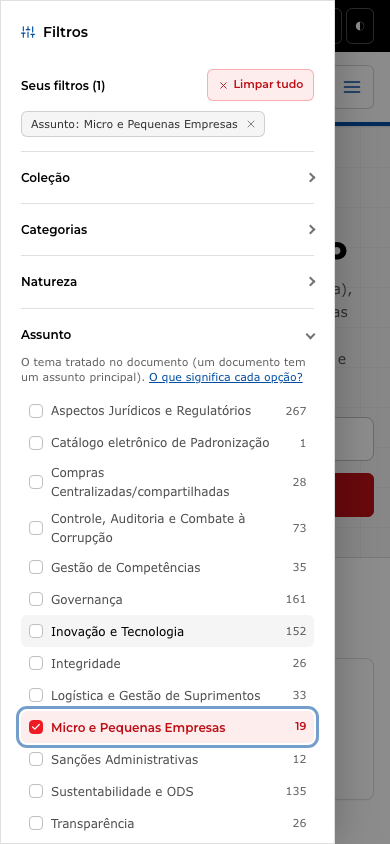
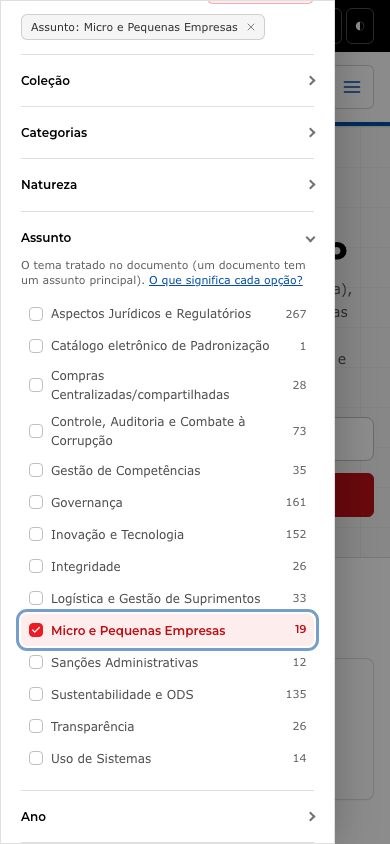
fix(acervo): filtro tocado não se desloca na barra lateral ao atualizar
Bernardo (15/09/2026): "a cada vez que seleciono um filtro a página sobe um
pouquinho". Medido com Playwright (rolagem instantânea, clique por
coordenada, log de eventos de scroll): nem a janela nem a rolagem interna
da barra mudavam — mas o bloco "Seus filtros" entra, cresce ou some ACIMA
da lista dentro da barra, e o checkbox tocado se deslocava ~97 px na tela
(descia ao marcar; subia ao desmarcar o último filtro).

- acervo-filters.js: a troca ancora o primeiro título de faceta
  (ancoraDaBarra), preserva sidebar.scrollTop (innerHTML pode zerá-lo) e
  compensa a diferença de posição na rolagem própria da barra
  (compensarAncora) — sticky no desktop, drawer no mobile; a rolagem da
  janela não muda. A restauração da janela passou a ser instantânea
  (behavior: "instant"): o html tem scroll-behavior: smooth e qualquer
  ajuste animado apareceria como "a página deslizou".
- evidencias_playwright.py: verificação filtro_tocado_nao_se_move nas cenas
  desktop e mobile (761 → 761 px; 615 → 614 px); diagnóstico: barra
  compensa 441 → 537 e o rótulo fica em 705 → 706; ao desmarcar o último
  filtro, 658 → 658; scrollY intacto em todas.
- Teste de contrato novo em test_filtros_sem_voltar_ao_topo.py (140 testes).

Residual inevitável só quando a barra não tem rolagem própria (conteúdo
menor que a viewport) ou já está no topo ao desmarcar.

diff --git a/portal/static/js/acervo-filters.js b/portal/static/js/acervo-filters.js
@@ -109,6 +109,26 @@
     if (!a || !form.contains(a)) return null;
     return { id: a.id || "", name: a.getAttribute("name") || "", value: a.value || "", tag: a.tagName };
   }
+  // Âncora visual da barra: o primeiro título de faceta ("Coleção"). O bloco
+  // "Seus filtros" entra/sai/cresce ACIMA dele a cada troca, e a lista inteira se
+  // deslocava ~97 px na tela (o checkbox tocado "descia", ou "subia" ao desmarcar
+  // o último filtro). A diferença de posição da âncora depois da troca é
+  // compensada na rolagem PRÓPRIA da barra (sticky/drawer com overflow), para o
+  // controle continuar sob o cursor — a rolagem da janela não muda.
+  function ancoraDaBarra() {
+    var s = sidebar.querySelector("details.side-section > summary");
+    return s ? { top: s.getBoundingClientRect().top } : null;
+  }
+  function compensarAncora(ancora) {
+    if (!ancora) return;
+    var s = sidebar.querySelector("details.side-section > summary");
+    if (!s) return;
+    var delta = Math.round(s.getBoundingClientRect().top - ancora.top);
+    if (!delta) return;
+    var max = sidebar.scrollHeight - sidebar.clientHeight;
+    if (max <= 0) return;                                   // barra sem rolagem própria: nada a compensar
+    sidebar.scrollTop = Math.max(0, Math.min(max, sidebar.scrollTop + delta));
+  }
   function focar(el) {
     if (!el) return;
     // Só ganha tabindex="-1" quem não é focável por natureza: <summary>, input,
@@ -180,6 +200,8 @@
         var foco = focoAtual();
         var drawerAberto = sidebar.classList.contains("is-open");
         var sx = window.scrollX, sy = window.scrollY;
+        var sbScroll = sidebar.scrollTop;                    // rolagem própria da barra (sticky/drawer)
+        var ancora = ancoraDaBarra();
 
         sidebar.innerHTML = novoSidebar.innerHTML;
         resultados.innerHTML = novoRes.innerHTML;
@@ -195,7 +217,11 @@
         reaplicarDetails(estado);
         var t = mobileToggle();
         if (t) t.setAttribute("aria-expanded", drawerAberto ? "true" : "false");
-        window.scrollTo(sx, sy);                            // o leitor continua onde estava
+        sidebar.scrollTop = sbScroll;                       // innerHTML pode zerar a rolagem da barra
+        // Instantâneo: o html tem scroll-behavior: smooth e um ajuste animado
+        // apareceria como "a página deslizou". O leitor continua onde estava.
+        window.scrollTo({ left: sx, top: sy, behavior: "instant" });
+        compensarAncora(ancora);                            // lista da barra não se desloca sob o cursor
 
         var titulo = doc.querySelector("title");
         if (titulo) document.title = titulo.textContent;

diff --git a/tools/evidencias_playwright.py b/tools/evidencias_playwright.py
@@ -104,12 +104,19 @@ def cena_filtro_desktop_js(page: Page, base: str, out: Path, suffix: str, cena: 
     page.wait_for_timeout(200)
     scroll_antes = page.evaluate("window.scrollY")
     page.evaluate("window.__marcador_sem_reload = true")
-    _label_assunto(page).click()
+    label = _label_assunto(page)
+    top_antes = label.bounding_box()["y"]
+    label.click()
     # Aguarda a atualização: com fetch, a URL muda sem navegação; sem, a página recarrega.
     page.wait_for_url("**/busca/?**assunto_id=**", timeout=10000)
     page.wait_for_load_state("networkidle")
     page.wait_for_timeout(300)
     scroll_depois = page.evaluate("window.scrollY")
+    # 15/09: o controle tocado continua no mesmo lugar da tela (o bloco "Seus
+    # filtros" entra acima dele e a barra compensa na rolagem própria).
+    top_depois = _label_assunto(page).bounding_box()["y"]
+    cena.check("filtro_tocado_nao_se_move", abs(top_depois - top_antes) <= 2,
+               f"top antes={top_antes:.0f} depois={top_depois:.0f}")
     sem_reload = page.evaluate("window.__marcador_sem_reload === true")
     foco = page.evaluate(
         "(function(){var a=document.activeElement; return a ? (a.name||'')+':'+(a.value||'')+':'+(a.checked?'1':'0') : ''})()"
@@ -172,10 +179,15 @@ def cena_filtro_mobile_js(page: Page, base: str, out: Path, suffix: str, cena: C
     page.wait_for_timeout(300)
     _abrir_assunto(page)
     page.evaluate("window.__marcador_sem_reload = true")
-    _label_assunto(page).click()
+    label = _label_assunto(page)
+    top_antes = label.bounding_box()["y"]
+    label.click()
     page.wait_for_url("**/busca/?**assunto_id=**", timeout=10000)
     page.wait_for_load_state("networkidle")
     page.wait_for_timeout(300)
+    top_depois = _label_assunto(page).bounding_box()["y"]
+    cena.check("filtro_tocado_nao_se_move", abs(top_depois - top_antes) <= 2,
+               f"top antes={top_antes:.0f} depois={top_depois:.0f}")
     aberto = page.evaluate("document.getElementById('acervo-sidebar').classList.contains('is-open')")
     expanded = page.locator(".acervo-mobile-toggle").get_attribute("aria-expanded")
     sem_reload = page.evaluate("window.__marcador_sem_reload === true")

diff --git a/portal/catalog/tests/test_filtros_sem_voltar_ao_topo.py b/portal/catalog/tests/test_filtros_sem_voltar_ao_topo.py
@@ -102,6 +102,18 @@ def test_js_correcoes_da_revisao_adversarial():
     assert "chipsRestantes" in JS or ".applied-filter-chip__remove\")" in JS
 
 
+def test_js_compensa_o_deslocamento_da_barra_lateral():
+    # 15/09: ao marcar um filtro, o bloco "Seus filtros" entra (ou sai) acima da
+    # lista dentro da barra e o checkbox tocado descia/subia ~97 px na tela. A troca
+    # ancora o primeiro título de faceta, preserva a rolagem interna da barra e
+    # compensa a diferença em sidebar.scrollTop; a restauração da janela é
+    # instantânea (o html tem scroll-behavior: smooth).
+    assert "ancoraDaBarra" in JS and "compensarAncora" in JS
+    assert "sidebar.scrollTop" in JS
+    assert 'behavior: "instant"' in JS
+    assert "getBoundingClientRect" in JS
+
+
 def test_js_sem_caminho_chumbado_nem_handler_inline():
     assert "/busca/" not in JS
     assert "/static/" not in JS

diff --git a/docs/specs/2026-09-14-validacao-subsecretario-plataforma.md b/docs/specs/2026-09-14-validacao-subsecretario-plataforma.md
@@ -46,6 +46,8 @@
 
 **Fora.** Interceptar o botão "Buscar" do herói (navegação completa, aterrissa nos resultados); rolar até o topo dos resultados ao paginar (a regra "não mover a rolagem" vale para tudo — fácil de rever).
 
+**Ajuste de 15/09/2026 (Bernardo: "a página sobe um pouquinho").** Medido com Playwright: nem a janela nem a rolagem interna da barra mudavam, mas o bloco "Seus filtros" entra/sai acima da lista dentro da barra e o checkbox tocado se deslocava ~97 px na tela (subia ao desmarcar o último filtro). Correção em `acervo-filters.js`: a troca ancora o primeiro título de faceta, preserva `sidebar.scrollTop` e compensa a diferença na rolagem própria da barra (sticky no desktop, drawer no mobile) — a janela não se move; a restauração da janela passou a ser instantânea (`behavior: "instant"`), porque o `html` tem `scroll-behavior: smooth` e um ajuste animado apareceria como deslize. Verificação nova `filtro_tocado_nao_se_move` (desktop 761 → 761 px; mobile 615 → 614). Residual só quando a barra não tem rolagem própria (conteúdo menor que a viewport) ou já está no topo ao desmarcar.
+
 ## T2 — Os dois eixos no cartão e na página do documento
 
 **Decisão.** Rodapé do cartão: `Etapa: <Categoria › Subcategoria> · Assunto: <Assunto>`, rótulos em texto, mesma tipografia (11px, cor 0.55); cada eixo trunca por si e o segundo desce de linha quando não cabem juntos, para o Assunto nunca sumir no mobile. Sem categoria → só o Assunto; sem Assunto → nome da coleção. `classificacao_card` (simple_tag pura) resolve pelos mapas cacheados — zero query por cartão (medido: `/busca/` 17 → 17 queries, home 36 → 36, documento 13 → 13). Página do documento: badge "Etapa: …" (ícone `fi-layers` do sprite), fórmula da Lina em Linguagem Simples sob "Classificação BDLP", rótulo "Etapa (categoria processual)" só na exibição. Hints das facetas amarrando etapa/categoria e assunto/tema.
